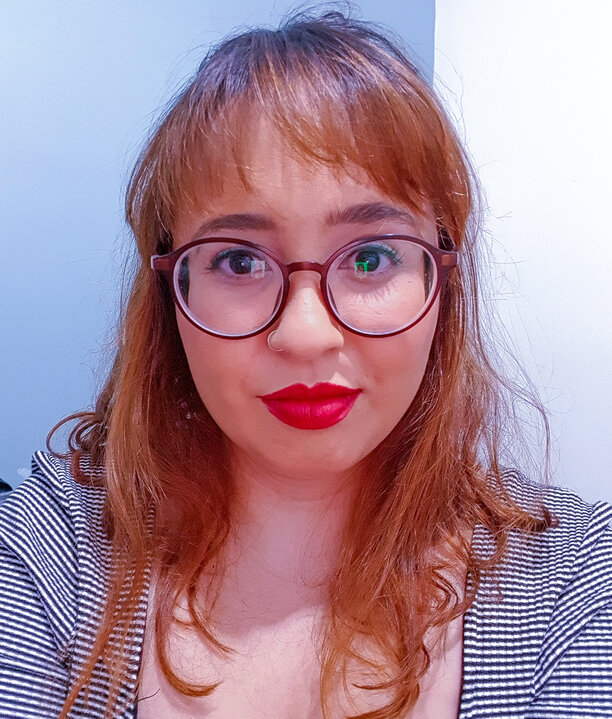
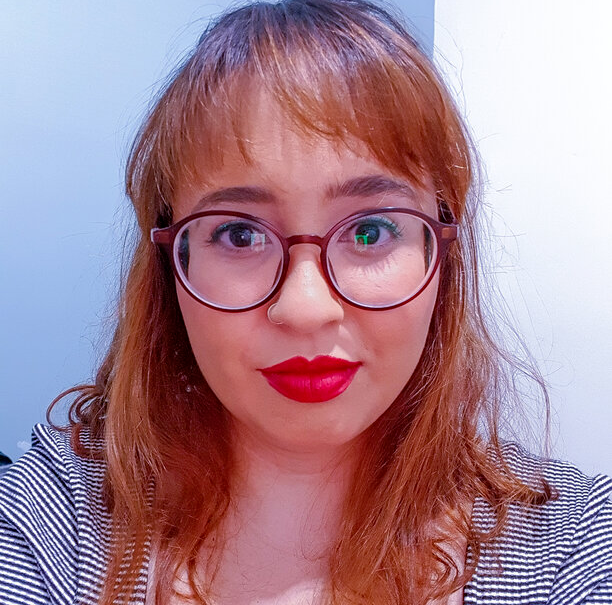
alterando layout

diff --git a/index.html b/index.html
@@ -10,7 +10,7 @@
     <header id=cabecalho>
         <h1 id=titulo>
            Minha evolução e aprendizados na TRYBE!
-           <img id="avatar" src="avatar.png"> 
+          <img id="avatar" alt="Avatar de Bruna" src="avatar.png">
         </h1>
         <nav>
             <a href="https://www.linkedin.com/in/brunacamposxx/">LinkedIn</a>
@@ -18,43 +18,72 @@
         </nav>
     </header>
 
-    <ol id="licoes_aprendidas">
-        <li></li>
-        <li></li>
-        <li></li>
-        <li></li>
-        <li></li>
-        <li></li>
-        <li></li>
-        <li></li>
-        <li></li>
-        <li></li>
-    </ol>
-    <ul id="licoes_a_aprender">
-        <li></li>
-        <li></li>
-        <li></li>
-        <li></li>
-        <li></li>
-        <li></li>
-        <li></li>
-        <li></li>
-        <li></li>
-        <li></li>
-    </ul>
-   
-    <article>
-        <h2>Minha evolução</h3>
+
+
+
+   <div class="container-artigo-aside">
+     
+        <article id="lado-esquerdo"> 
+          <h2>PRIMEIROS PASSOS</h3>
             <p>"Hello World"
                 Lorem ipsum dolor sit amet consectetur, adipisicing elit. Lorem ipsum dolor sit amet consectetur adipisicing elit. Ipsam eos eius ducimus iste sequi, harum itaque deserunt a totam, sit beatae. Dolorum natus consequuntur dicta qui, ut totam! Eos, perferendis. Lorem ipsum dolor, sit amet consectetur adipisicing elit. Molestias eaque illum reiciendis repellendus, obcaecati at fugiat neque dolor ea laudantium quidem. Asperiores doloremque dolor sunt, sit debitis recusandae? Dolor, magni.
             </p>
-    </article>
-    <aside>
-        <section>
-            <h3>Curiosidades</h3>
-            Lorem ipsum dolor sit, amet consectetur adipisicing elit. Deserunt Lorem ipsum dolor sit amet conse blablablabla blablabla blablabla sit
-        </section>
-    </aside>
+        </article>
+      
+
+      <aside id="lado-direito">
+          <section id="container-foto-texto">
+            <img id="minha_foto" src="perfil.jpg">
+              <div id="texto-direita">
+                <h2>WRITTEN BY</h2>
+                <h3>BRUNA CAMPOS</h3>                
+                <p>Carioca, 28 anos, mãe de pet, programadora em desenvolvimento.</p> 
+              </div>
+          </section>
+        
+      </aside>
+    </div>
+  
+    
+
+
+
+  <div class="container-licoes">
+    <div class="container-lista">
+      <ol id="licoes_aprendidas">
+        <li>HTML</li>
+        <li>HTML</li>
+        <li>HTML</li>
+        <li>HTML</li>
+        <li>HTML</li>
+        <li>HTML</li>
+        <li>HTML</li>
+        <li>HTML</li>
+        <li>HTML</li>
+        <li>HTML</li>
+      </ol>
+    </div>
+
+    <div class="container-lista">
+      <ul id="licoes_a_aprender">
+        <li>JS</li>
+        <li>JS</li>
+        <li>JS</li>
+        <li>JS</li>
+        <li>JS</li>
+        <li>JS</li>
+        <li>JS</li>
+        <li>JS</li>
+        <li></li>
+        <li></li>
+      </ul>
+    </div>
+  </div>
+
+
+
+
+
     <p>Simple table with header</p>
     <table>
       <tr>
@@ -70,13 +99,13 @@
         <td>10 anos</td>
       </tr>
     </table>
-    <img id="minha_foto" src="perfil.jpg">
+    
     
     <a class="button" href="https://www.linkedin.com/in/brunacamposxx/"
     target="_blank">Vamos conversar?</a>
     
     <footer id="rodape">
-       
+     
     </footer>
   </body>
 </html>

diff --git a/style.css b/style.css
@@ -1,43 +1,67 @@
 body {
     background-color: rgb(253, 251, 251);
-    padding: 10px;
+    padding: 3px;
     border: 2px;
     font-family: arial, sans;
 }
 
-#cabecalho {
+header {
     background-color: #1261d1;
+    background-size: auto;
     position: fixed;
     top: 0px;
-    font-size: 25px;
+    font-size: 18px;
     color: #08deea;
     line-height: 1px;
     margin: auto;
-    border: 2px solid #ff2a6d;
-    padding: 10px 30px 0;
+    border: 3px solid #ff2a6d;
+    padding: 5px
+    
 }
-h1 {
+#cabecalho {
+    
+}
 
+#titulo {
+    margin-left: 20px;
+    margin-right: 20px;
+    text-align: center;
+    margin-top: 0px; 
     text-shadow: 0.050em 0.1em 0.05em #fd8090;
 }
 
 #avatar {
-    width: 20%;
-    padding: 30px;
+    width: 8%;
+    margin: auto;
 }
+
 #minha_foto{
-    width: 15%;
-    padding: 70px 30px;
+    width: 70%;
     margin: auto;
     border-radius: 100%;
+    padding: 1px 1px;
+
 }
 
 #licoes_aprendidas{
-    margin: 10px;
+    padding: 30px 70px;
+    width: 40%;
+    margin: auto;
 }
 #licoes_a_aprender{
-    margin: 10px;
+    padding: 30px 70px;
+    width: 40%;
+    margin: auto;
 }
+
+.container-lista {
+    width: 20%;
+    text-align: center;
+    margin: 10px;
+    display: inline-block;
+
+}
+
 #rodape{
 
 }
@@ -52,5 +76,37 @@ h1 {
     line-height: 20px;
     font-weight: 700;
     text-shadow: 0.050em 0.1em 0.05em #1261d1;
+    
+}
 
+#lado-esquerdo {
+    padding: 20px 30px;
+    width: 40%;
+    margin: auto;
+    display: inline-block
+
+}
+
+#lado-direito {
+    padding: 20px 30px;
+    width: 15%;
+    margin: auto;
+    display: inline-block
+}
+
+.container-artigo-aside {
+    padding: 130px 0px;
+    margin: 10px;
+    display: inline-block;
+}
+
+#texto-direita {
+    padding: 1px 1px;
+    margin: auto;
+
+}
+
+#container-foto-texto {
+    margin: 10px;
+    display: inline-block;
 }
